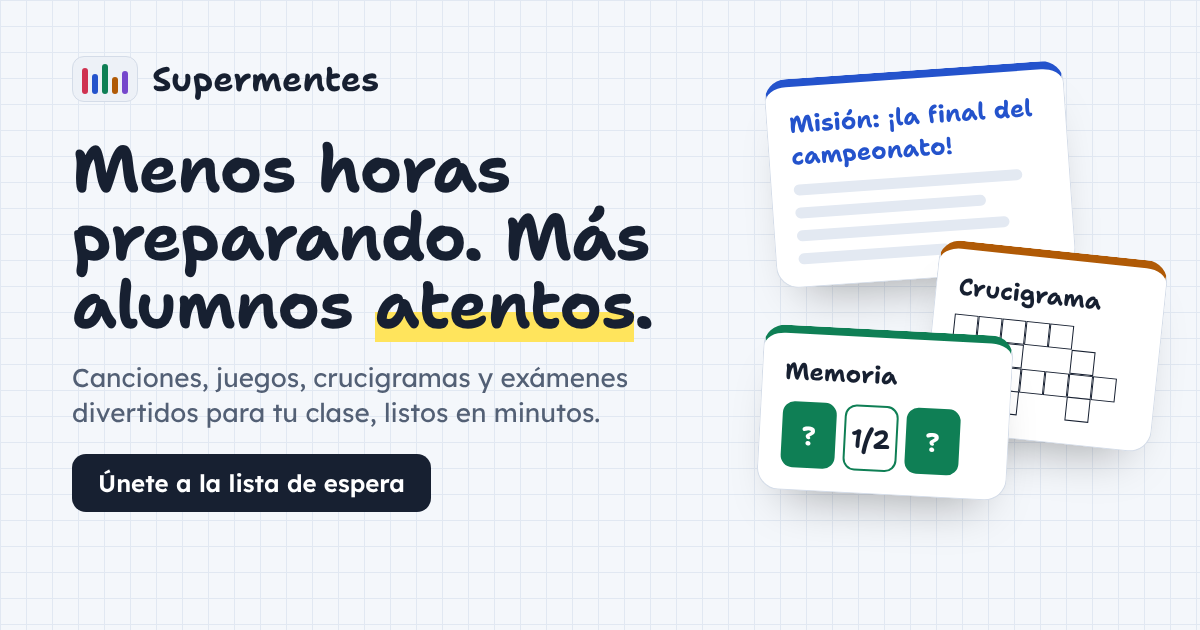
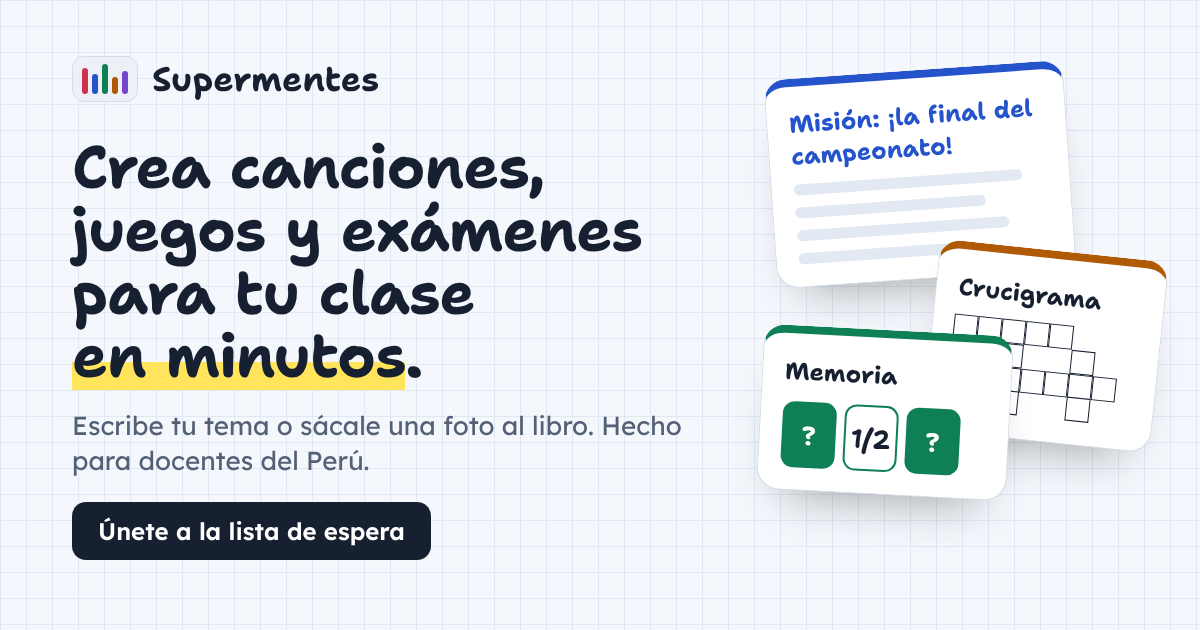
Nuevo título de la landing: "Crea canciones, juegos y exámenes para tu clase en minutos."
- Título elegido por el equipo, con "en minutos" resaltado y sin cortarse.
- Tamaño ajustado para que entre en 4 líneas en escritorio.
- Título para compartir e imagen og.png con el texto nuevo.
- obsidian/ESTADO.md: fuera los pendientes ya resueltos (título y rama
  de producción).

Claude-Session: https://claude.ai/code/session_015gCfUZQvfF1KgSSRFuYWhY

Changed region(s): [[0.0617, 0.2111, 0.5858, 0.9048]]

diff --git a/apps/web/index.html b/apps/web/index.html
@@ -8,7 +8,7 @@
     <meta name="description" content="Escribe tu tema o sácale una foto al libro: Supermentes te prepara canciones, juegos, crucigramas y exámenes divertidos para tu clase en minutos. Únete a la lista de espera." />
     <meta property="og:type" content="website" />
     <meta property="og:site_name" content="Supermentes" />
-    <meta property="og:title" content="Supermentes: menos horas preparando, más alumnos atentos" />
+    <meta property="og:title" content="Supermentes: crea canciones, juegos y exámenes para tu clase en minutos" />
     <meta property="og:description" content="Canciones, juegos, crucigramas y exámenes divertidos para tu clase, listos en minutos. Hecho para docentes del Perú." />
     <meta property="og:url" content="https://www.supermentes.app/" />
     <meta property="og:image" content="https://www.supermentes.app/og.png" />
@@ -16,7 +16,7 @@
     <meta property="og:image:height" content="630" />
     <meta property="og:locale" content="es_PE" />
     <meta name="twitter:card" content="summary_large_image" />
-    <meta name="twitter:title" content="Supermentes: menos horas preparando, más alumnos atentos" />
+    <meta name="twitter:title" content="Supermentes: crea canciones, juegos y exámenes para tu clase en minutos" />
     <meta name="twitter:description" content="Canciones, juegos, crucigramas y exámenes divertidos para tu clase, listos en minutos." />
     <meta name="twitter:image" content="https://www.supermentes.app/og.png" />
     <meta name="theme-color" content="#f4f7fb" />

diff --git a/apps/web/src/landing/Landing.tsx b/apps/web/src/landing/Landing.tsx
@@ -182,12 +182,12 @@ export function Landing() {
               <span className="size-2 rounded-full bg-cancion" aria-hidden />
               Para docentes de inicial, primaria y secundaria del Perú
             </p>
-            <h1 className="font-display text-[2.7rem] font-bold leading-[1.02] tracking-tight sm:text-6xl lg:text-[4.4rem]">
-              Menos horas preparando. Más alumnos <span className="marker">atentos</span>.
+            <h1 className="font-display text-[2.5rem] font-bold leading-[1.04] tracking-tight sm:text-[3.4rem] lg:text-[3.55rem]">
+              Crea canciones, juegos y exámenes para tu clase <span className="marker">en minutos</span>.
             </h1>
             <p className="max-w-xl text-lg text-ink-soft sm:text-xl">
-              Escribe tu tema o sácale una foto a la página del libro. Supermentes te prepara la canción, el juego, el crucigrama o el examen
-              divertido que necesitas, listo para imprimir o proyectar.
+              Escribe tu tema o sácale una foto a la página del libro. Supermentes arma el material y tú lo imprimes, lo proyectas o lo compartes
+              por WhatsApp.
             </p>
             <div className="flex max-w-xl flex-col gap-3">
               {bienvenida ?? <FormularioCorreo origen={origen} alUnirse={alUnirse} />}

diff --git a/obsidian/ESTADO.md b/obsidian/ESTADO.md
@@ -14,12 +14,10 @@ Herramientas de IA para docentes del Perú (Hack the Andes 2026, repo `Hecze/sup
 - **App en `/app`, privada:** solo entra quien tiene el enlace `/app?acceso=…` (clave en la variable `APP_ACCESO` de Vercel). Interfaz completa con datos de ejemplo; todo pasa por `apps/web/src/api`.
 
 ## Siguiente paso
-- Elegir el título principal de la landing (hay opciones propuestas).
 - Backend `/api` con Claude (ficha, letra, examen, juego, adaptación): contratos en `apps/web/src/api/types.ts`, endpoints en el README.
 - Audio con ElevenLabs, persistencia (biblioteca, créditos, links/QR), pictogramas ARASAAC.
 
 ## Riesgos
-- La rama de producción de Vercel quedó como `claude/fervent-feynman-xbn417` (la rama por defecto de GitHub). Hasta cambiarla a `main` (GitHub → Settings → Default branch, y Vercel → Settings → Environments → Production), los pushes a `main` crean solo vistas previas y producción se despliega a mano.
 - El `package-lock.json` debe incluir los binarios de Linux (`@rolldown/binding-linux-x64-gnu`, etc.) o el build de Vercel falla. Si npm los omite, regenerarlo con `rm -rf node_modules package-lock.json && npm install`.
 - El repo es de Hecze: coordinar con él antes de pushear cambios de estructura a `main`.
 
